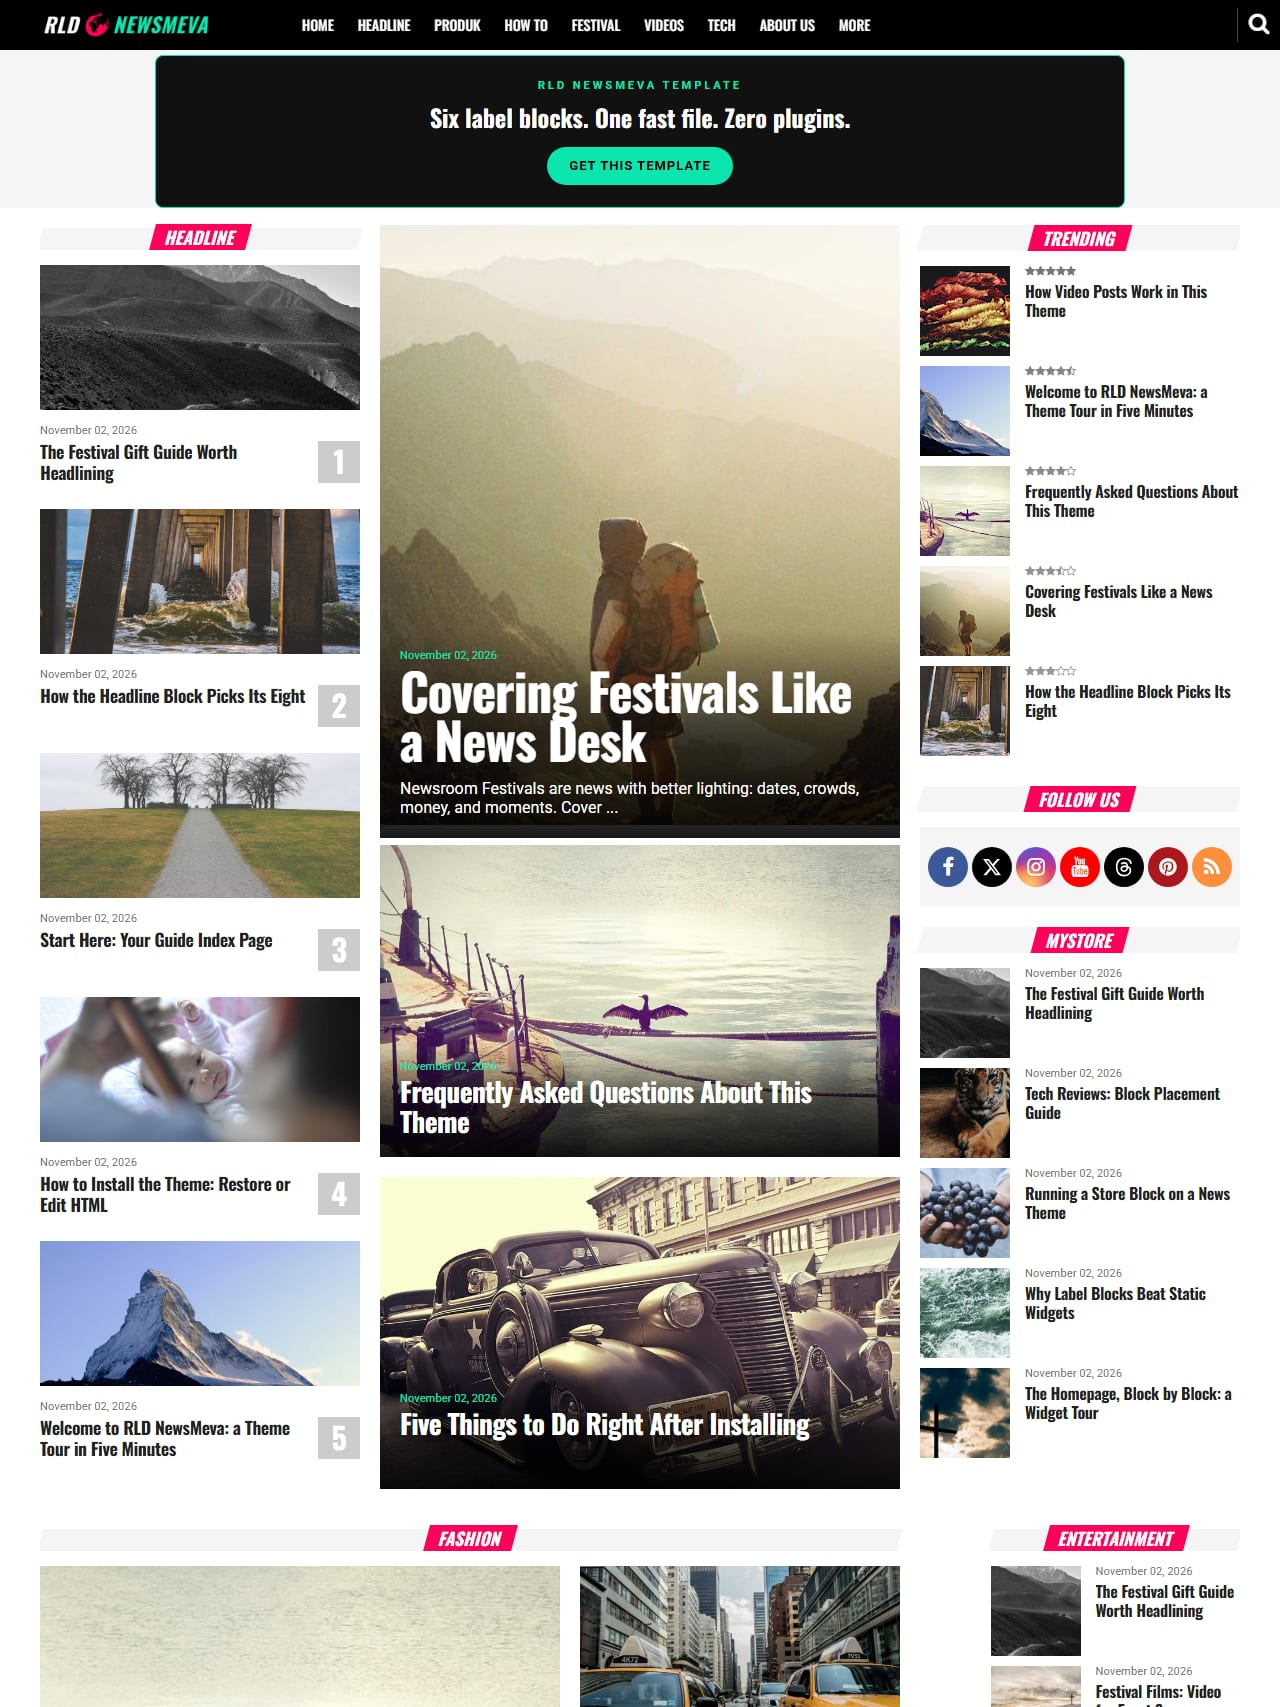
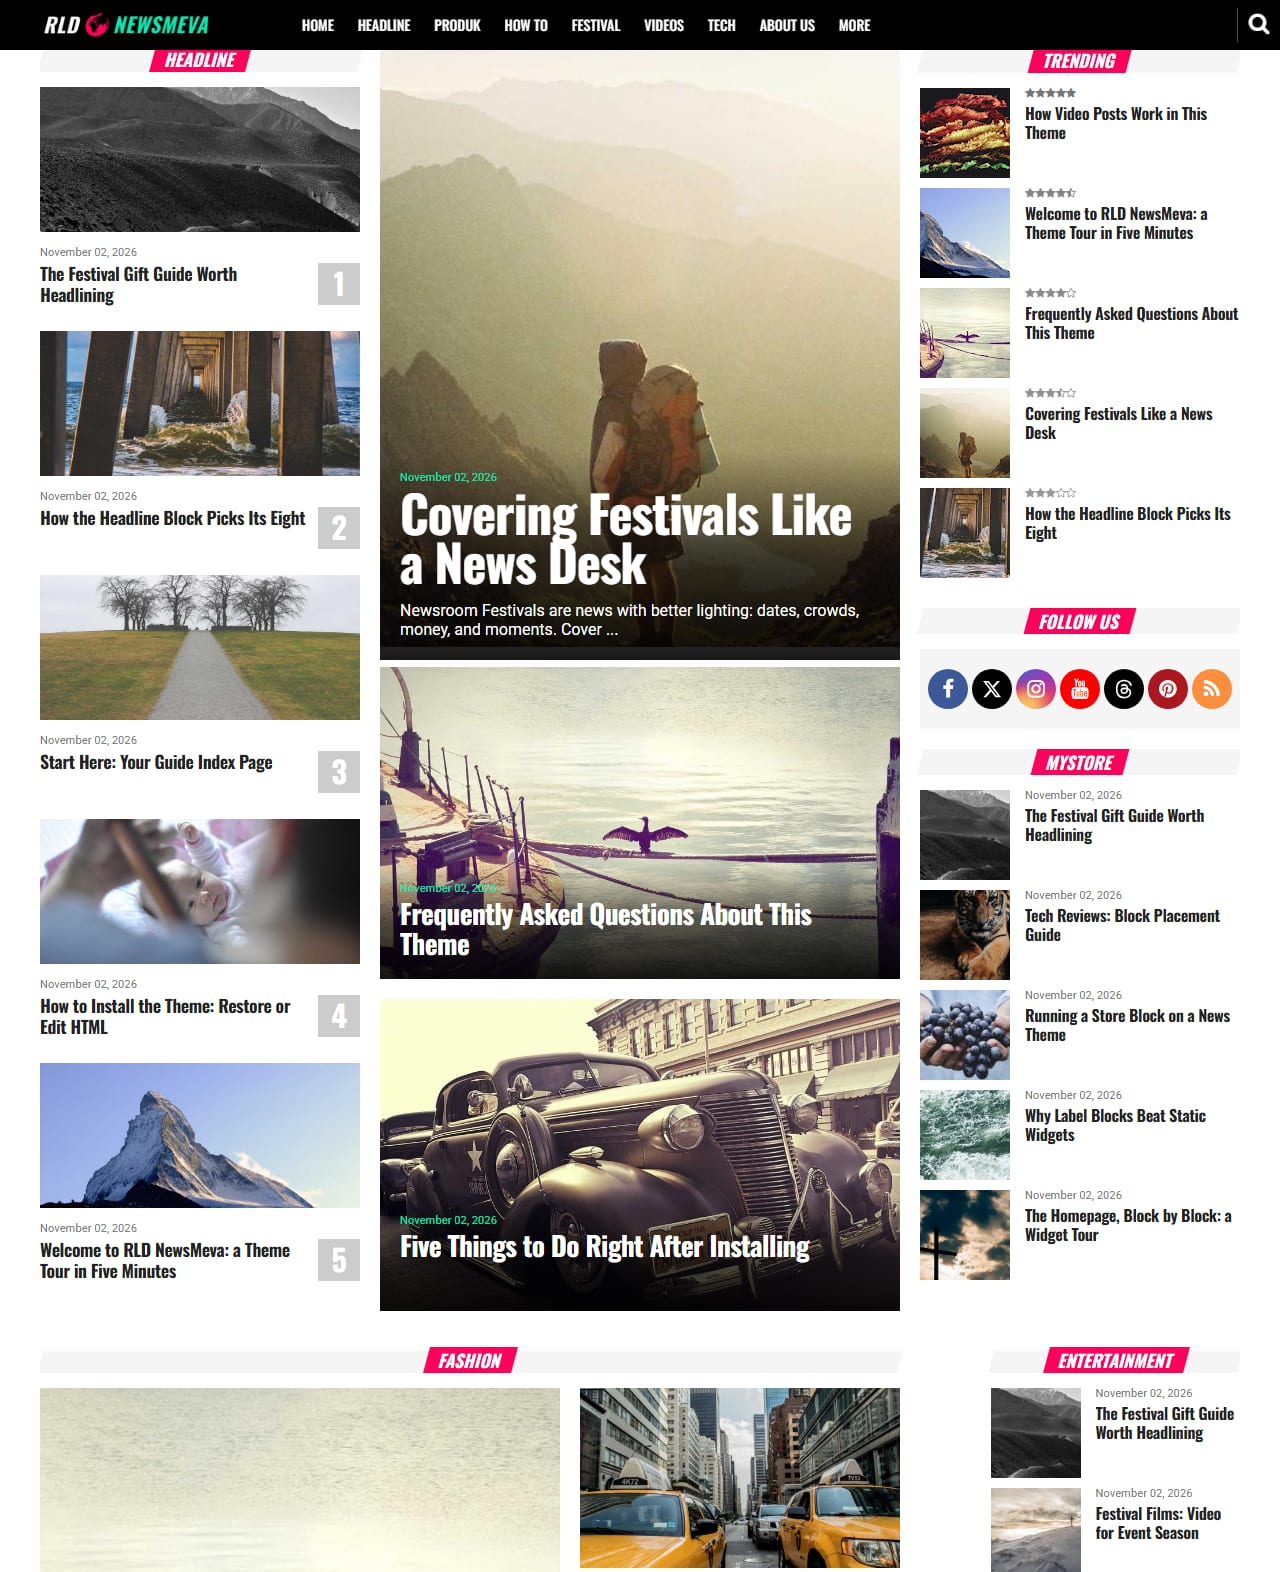
WEBSTR001-C032: RLD card preview follows operator snapshot framing

diff --git a/docs/CHANGES.md b/docs/CHANGES.md
@@ -97,3 +97,4 @@ before either machine allocates further -- see `the-machine/build-plan/RULES.md`
 | WEBSTR001-C029 | 2026-11-01 | feat | **The Hannels card and detail preview now show a real template screenshot.** The operator-supplied 788x922 PNG (`public/images/hannels-id-meva-preview.png`, 256,929 bytes -- a homepage capture: header, ad band, story circles, headline slider, label pills, Breaking cards) replaces the generated `hannels-id-meva-thumb.svg` mockup as the catalog `thumbnail` and `galleryImages`, following the C024 Llianmeva precedent. The store-wide `og:image`/`twitter:image` stay on the Llianmeva PNG (the store brand card; this SPA serves no per-page social tags). `generate-assets.js` only writes SVGs, so a future `npm run assets` will not overwrite the PNG. The unreferenced SVGs stay on disk per the orphaned-asset convention. | `npm test` (typecheck, oxlint, registry, sitemap:check, id:check, capsule:check) && `npm run build`; browser pass of `/` and `/template/hannels-id-meva` confirming the PNG renders in the card and the detail preview | b8b6767 |
 | WEBSTR001-C030 | 2026-11-02 | chore | **Hannels demo links follow the blog move: `hannelidmeva-test.blogspot.com` (now 404) to `hannelsidmeva.blogspot.com`.** Catalog `liveDemoUrl` and the Demo spec link plus registry `liveUrl` name the new blog; `REGISTRY.md` re-synced (carries no URL, byte-identical). The new blog was fingerprinted serving the C448 template (full page, belts, stories, consent) before the swap. Sealed history (C028 row) keeps the old URL as the record of what was true then. | `npm test` (typecheck, oxlint, registry, sitemap:check, id:check, capsule:check) && `npm run build`; wrangler Pages deploy; browser pass of `/template/hannels-id-meva` confirming the Demo links resolve to the new blog | 41604e1 |
 | WEBSTR001-C031 | 2026-11-02 | feat | **The third real product is published: `BLG-BLBL-001` as `rld-newsmeva`, $12.95, with the real v2.0.0 XML as its free edition.** The catalog row carries measured project facts (Magazine, 2 columns, six label blocks, Trending + video marquee + recent posts, share/related/comments post pages, canonical + OG/X cards + WebSite/BlogPosting/BreadcrumbList JSON-LD, three ad slots but no ad code, six social networks, no dark mode/RTL/reading/TOC/mega) and deliberately empty measurements: no PageSpeed score, rating, review count or sales count, because none exist. `docs/products.json` moved to `status: published`, `resale: allowed` (cleared by the owner in the publish order, who also confirmed the $12.95 house price and the free-download + contact-purchase model), `slug: rld-newsmeva`, the corrected repo URL and v2.0.0, `liveUrl: https://rldnewsmeva-test.blogspot.com/` and `trialArtifact: /download/rld-newsmeva-v2.0.0.xml`; the 157,200-byte shipped product XML is the download, served from this store (byte-identical to the template repo product file). `buyUrl` is `/contact` by decision while the store is pre-launch. The card shows a real headless-Chrome homepage screenshot (1280x1707 JPEG, 283,265 bytes, blocks verified rendered) instead of a generated mockup; the auto-generated SVGs stay on disk as orphans per convention. First product with no serial system: a new optional `hasActivation` flag (absent means true, so all eleven existing rows render byte-identically) hides the serial checklist line, activation tip, comparison serial sentences and activation-guide button, and renames the tab to Free vs. Paid -- shipping paste-your-serial instructions for a template with no Licence Activation gadget would have been a lie with a button on it. The one-product prose in README, USER_GUIDE, the LISTED comment, capsule fact 2 and TASKS follows the three-product catalog. Sitemap regenerated (3 product URLs), REGISTRY.md synced. | `npm test` (typecheck, oxlint, registry, sitemap:check, id:check, capsule:check) && `npm run build`; browser pass of `/`, `/templates/rld-newsmeva` and `/preview/rld-newsmeva` confirming the card, honest no-serial detail page and working demo | fdabeb1 |
+| WEBSTR001-C032 | 2026-11-02 | chore | **The RLD card preview follows the operator's snapshot framing (no ad band).** The operator-supplied framing starts at the header and cuts the leaderboard house-ad; the attachment carried no bytes, so it was reproduced exactly from the live demo: headless-Chrome 1280x1750 capture composited as header rows plus content-below-ad, verified seamless, saved as the same `/images/rld-newsmeva-preview.jpg` path (274,406 bytes, down from 1,627,011). No catalog, registry, sitemap or component changes -- same file path, new pixels. | `npm test` (typecheck, oxlint, registry, sitemap:check, id:check, capsule:check) && `npm run build`; composite seam verified by viewing; live deploy check (bundle carries `rld-newsmeva`, JPG serves 200 at 274,406 bytes) | pending-seal |

diff --git a/docs/MEMORY_CAPSULE.md b/docs/MEMORY_CAPSULE.md
@@ -559,3 +559,6 @@ The `hannels-id-meva` store card and detail preview render the operator's 788x92
 RLD NewsMeva (`rld-newsmeva`, BLG-BLBL-001) is on sale at $12.95 (list $29.00) with `/contact` checkout and the real v2.0.0 product XML (157,200 bytes) as a direct store download. The owner cleared resale and confirmed the house price in the publish order. Every catalog claim was measured against the template bytes and the live demo before it was written: six label blocks, Trending, video marquee, share/related/comments post pages, canonical plus OG/X cards plus JSON-LD, three ad slots with no ad code -- and explicitly no dark mode, RTL, reading mode, TOC or mega menu, because the bytes say so. The card shows a real headless-Chrome homepage screenshot (1280x1707 JPEG, 283KB) instead of a generated mockup; the SVG mockups stay on disk as orphans.
 
 This is the first product with no serial system, so the trial/activation UI needed a gate, not just copy: a new optional `hasActivation` flag (absent means true, so the eleven existing rows render byte-identically) hides the serial checklist line, the activation tip, the comparison-tab serial sentences and the activation-guide button, and renames the tab to Free vs. Paid. The alternative -- shipping paste-your-serial instructions for a template with no Licence Activation gadget -- would have been a lie with a button on it. Lesson repeated from C014/C026/C028: measure, do not trust the task box; the free edition here genuinely carries no credit, notice, expiry or tracking, and the listing says exactly that.
+## 2026-11-02 - WEBSTR001-C032 - RLD preview follows the operator snapshot
+
+The operator sent a snapshot framing for the RLD card: header straight into the Headline block, no leaderboard ad band. The attachment had no retrievable bytes, so the framing was reproduced from a fresh headless capture (header rows plus content-below-ad composited, seam verified by viewing) at the same catalog path. Lesson: a preview crop is a composition decision, and the operator is the art director -- reproduce the framing, don't argue the pixels.
